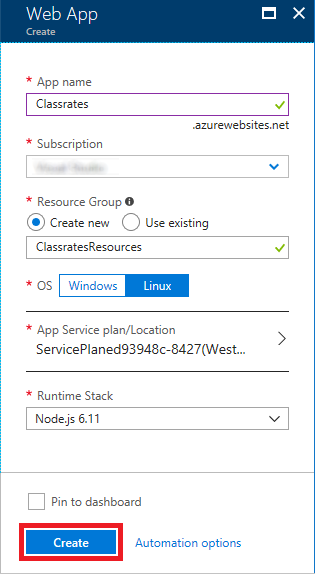
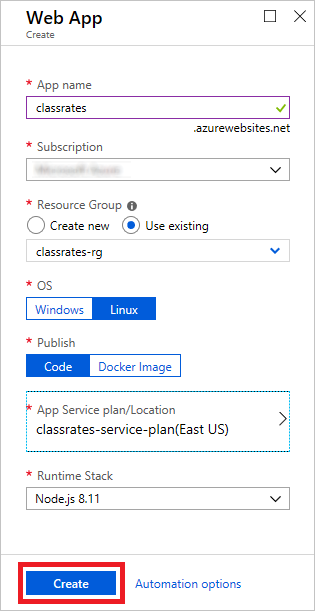
Updated Classrates lab Exercises 2 and 5

diff --git a/Labs/Web Development/Azure Web Apps and GitHub/Deploying a Cognitive Services Web Site to Azure via GitHub.md b/Labs/Web Development/Azure Web Apps and GitHub/Deploying a Cognitive Services Web Site to Azure via GitHub.md
@@ -36,8 +36,9 @@ This hands-on lab includes the following exercises:
 - [Exercise 2: Fork the repo and run Classrates locally](#Exercise2)
 - [Exercise 3: Create an Azure Web App](#Exercise3)
 - [Exercise 4: Deploy the modified Classrates site to Azure](#Exercise4)
+- [Exercise 5: Delete the resource group](#Exercise5)
 
-Estimated time to complete this lab: **20 to 30** minutes.
+Estimated time to complete this lab: **30** minutes.
 
 <a name="Exercise1"></a>
 ## Exercise 1: Get a Text Analytics API key ##
@@ -84,7 +85,7 @@ In order to call the Text Analytics API, you need an endpoint URL and an API key
 
 	_Copying the API key_
 
-The endpoint URL is the base URL to which calls to the Text Analytics API are placed — "base" because "/sentiment" must be appended to complete the URL. The API key travels in an HTTP header in each request. Without a valid API key, the Text Analytics API fails requests placed to it. It is the API's way of ensuring that the caller is authorized.
+The endpoint URL is the base URL to which calls to the Text Analytics API are placed — "base" because "/sentiment" must be appended to the URL to score text for sentiment. The API key travels in an HTTP header in each request. Without a valid API key, the Text Analytics API fails requests placed to it. It is the API's way of ensuring that the caller is authorized.
 
 <a name="Exercise2"></a>
 ## Exercise 2: Fork the repo and run Classrates locally ##
@@ -135,7 +136,7 @@ The endpoint URL is the base URL to which calls to the Text Analytics API are pl
 
 1. Start Visual Studio Code and use the **File** > **Open Folder...** command to open the "Classrates" directory containing the cloned repo — the directory that was created by the ```git``` command in Step 6.
 
-1. Select **Integrated Terminal** from Visual Studio Code's **View** menu to open an integrated terminal. Then execute the following command in the integrated terminal to install [Bootstrap](https://www.npmjs.com/package/bootstrap), [Express](https://www.npmjs.com/package/express), and other packages that Classrates requires:
+1. Select **Terminal** from Visual Studio Code's **View** menu to open an integrated terminal. Then execute the following command in the integrated terminal to install [Bootstrap](https://www.npmjs.com/package/bootstrap), [Express](https://www.npmjs.com/package/express), and other packages that Classrates requires:
 
 	```
 	npm install
@@ -172,23 +173,23 @@ Play around with the Web site and familiarize yourself with how it works. Feel f
 <a name="Exercise3"></a>
 ## Exercise 3: Create an Azure Web App ##
 
-In this exercise, you will use the [Azure portal](https://portal.azure.com) to create an Azure Web App and connect it to the Classrates repo that was created for you in GitHub when you forked the master repo. With this connection established, pushing changes from the local repo to the GitHub repo will automatically publish those changes to Azure — a process known as [continuous integration](https://en.wikipedia.org/wiki/Continuous_integration).
+In this exercise, you will use the [Azure Portal](https://portal.azure.com) to create an Azure Web App and connect it to the Classrates repo that was created for you in GitHub when you forked the master repo. With this connection established, pushing changes from the local repo to the GitHub repo will automatically publish those changes to Azure — a process known as [continuous integration](https://en.wikipedia.org/wiki/Continuous_integration).
 
-1. In the portal, click **+ Create a resource**, followed by **Web + Mobile** and **Web App**.
+1. In the portal, click **+ Create a resource**, followed by **Web** and **Web App**.
 
     ![Creating an Azure Web App](Images/new-web-app.png)
 
     _Creating an Azure Web App_
 
-1. Enter a unique name for the app. The name must be unique across Azure, so you will probably have to use something other than "Classrates." Select **Create new** under "Resource Group" and enter a resource-group name, and select the operating system on which you want the Web App to run. (Either Windows or Linux is fine.) Click **App service plan/Location** and create a new service plan that specifies the Azure region in which you want to host the Web App (for example, East US). Then click the **Create** button at the bottom of the blade.
+1. Enter a unique name for the app. The name must be unique across Azure, so you will probably have to use something other than "Classrates." Place the Web App in the "classrates-rg" resource group you created in [Exercise 1](#Exercise1), and select the operating system on which you want the Web App to run. (Either Windows or Linux is fine.)
 
-	> When you create a service plan, you can also choose the type of server that will host the Web site and select a cost model. At the time of this writing, Azure offers a free hosting plan for Windows, but not for Linux. Azure is constantly evolving, so this may change in the future.
+	Click **App Service plan/Location** and create a new service plan in the same region you selected for the Text Analytics resource in Exercise 1 and that uses an inexpensive pricing tier — for example, the B1 tier available under Dev/Test, which is free for 30 days if you deploy the Web App on Linux. Select **Node.js 8.11** or higher as the runtime stack. Then click the **Create** button at the bottom of the blade.
 
 	![Creating an Azure Web App](Images/create-web-app.png)
 
 	_Creating an Azure Web App_
 
-1. Wait for the deployment to finish. (It typically takes 5 minutes or less.) Then go to the Azure Web App in the Azure portal. One way to get there is to click **Resource groups** in the ribbon on the left, select the resource group whose name you specified in the previous step, and then click the Web App resource. You can also click the **Go to resource** button in the dialog that pops up in the portal when the deployment completes.
+1. Wait for the deployment to finish. Then go to the Azure Web App in the Azure portal. One way to get there is to open the resource group and click the Web App resource in that group. You can also click the **Go to resource** button in the dialog that pops up in the portal when the deployment completes.
 
 1. Click **Deployment options** in the menu on the left side of the blade for the Azure Web App. Click **Choose Source**, and then click **GitHub**.
 
@@ -234,6 +235,27 @@ In this exercise, you will use Visual Studio Code to push the modified version o
 1. Click around the site and enter a few comments, ensuring that the site works the same in Azure as it did when you ran it ran locally. In particular, make sure that the comments you enter are converted into ratings, which is proof that the version of **functions.js** that you modified with an endpoint URL and an API key was successfully published to GitHub and subsequently to Azure.
 
 Now that you have continuous integration set up, you can make changes to the Web site by making the changes locally, checking them in, and rerunning the **Publish Branch** command. Of course, you can still test your changes locally before publishing them to Azure. You also enjoy the many benefits of source control, including the ability to isolate the work that you do in branches, view the changes that have been committed, and easily revert to previous versions of the code. To learn more about source control in Visual Studio Code, see [Using Version Control in VS Code](https://code.visualstudio.com/docs/editor/versioncontrol).
+
+<a name="Exercise5"></a>
+## Exercise 5: Delete the resource group ##
+
+In this exercise, you will delete the resource group that holds all the resources you created in this lab. Deleting the resource group deletes everything in it and prevents any further charges from being incurred for it. Resource groups that are deleted can't be recovered, so be certain you're finished using it before deleting it.
+
+1. Click **Resource groups** in the menu on the left side of the portal to show a list of resource groups. Then click the "classrates-rg" resource group.
+
+    ![Opening the resource group](Images/open-resource-group.png)
+
+    _Opening the resource group_
+
+1. Click **Delete resource group** at the top of the blade.
+
+    ![Deleting the resource group](Images/delete-resource-group.png)
+
+    _Deleting the resource group_
+
+1. For safety, you are required to type in the resource group's name. (Once deleted, a resource group cannot be recovered.) Type the name of the resource group. Then click the **Delete** button to remove all traces of this lab from your Azure subscription.
+
+After a few minutes, the resource group and all of its resources will be deleted. Billing stops when you click **Delete**, so you're not charged for the time required to delete the resources. Similarly, billing doesn't start until the resources are fully and successfully deployed.
 
 <a name="Summary"></a>
 ## Summary ##
